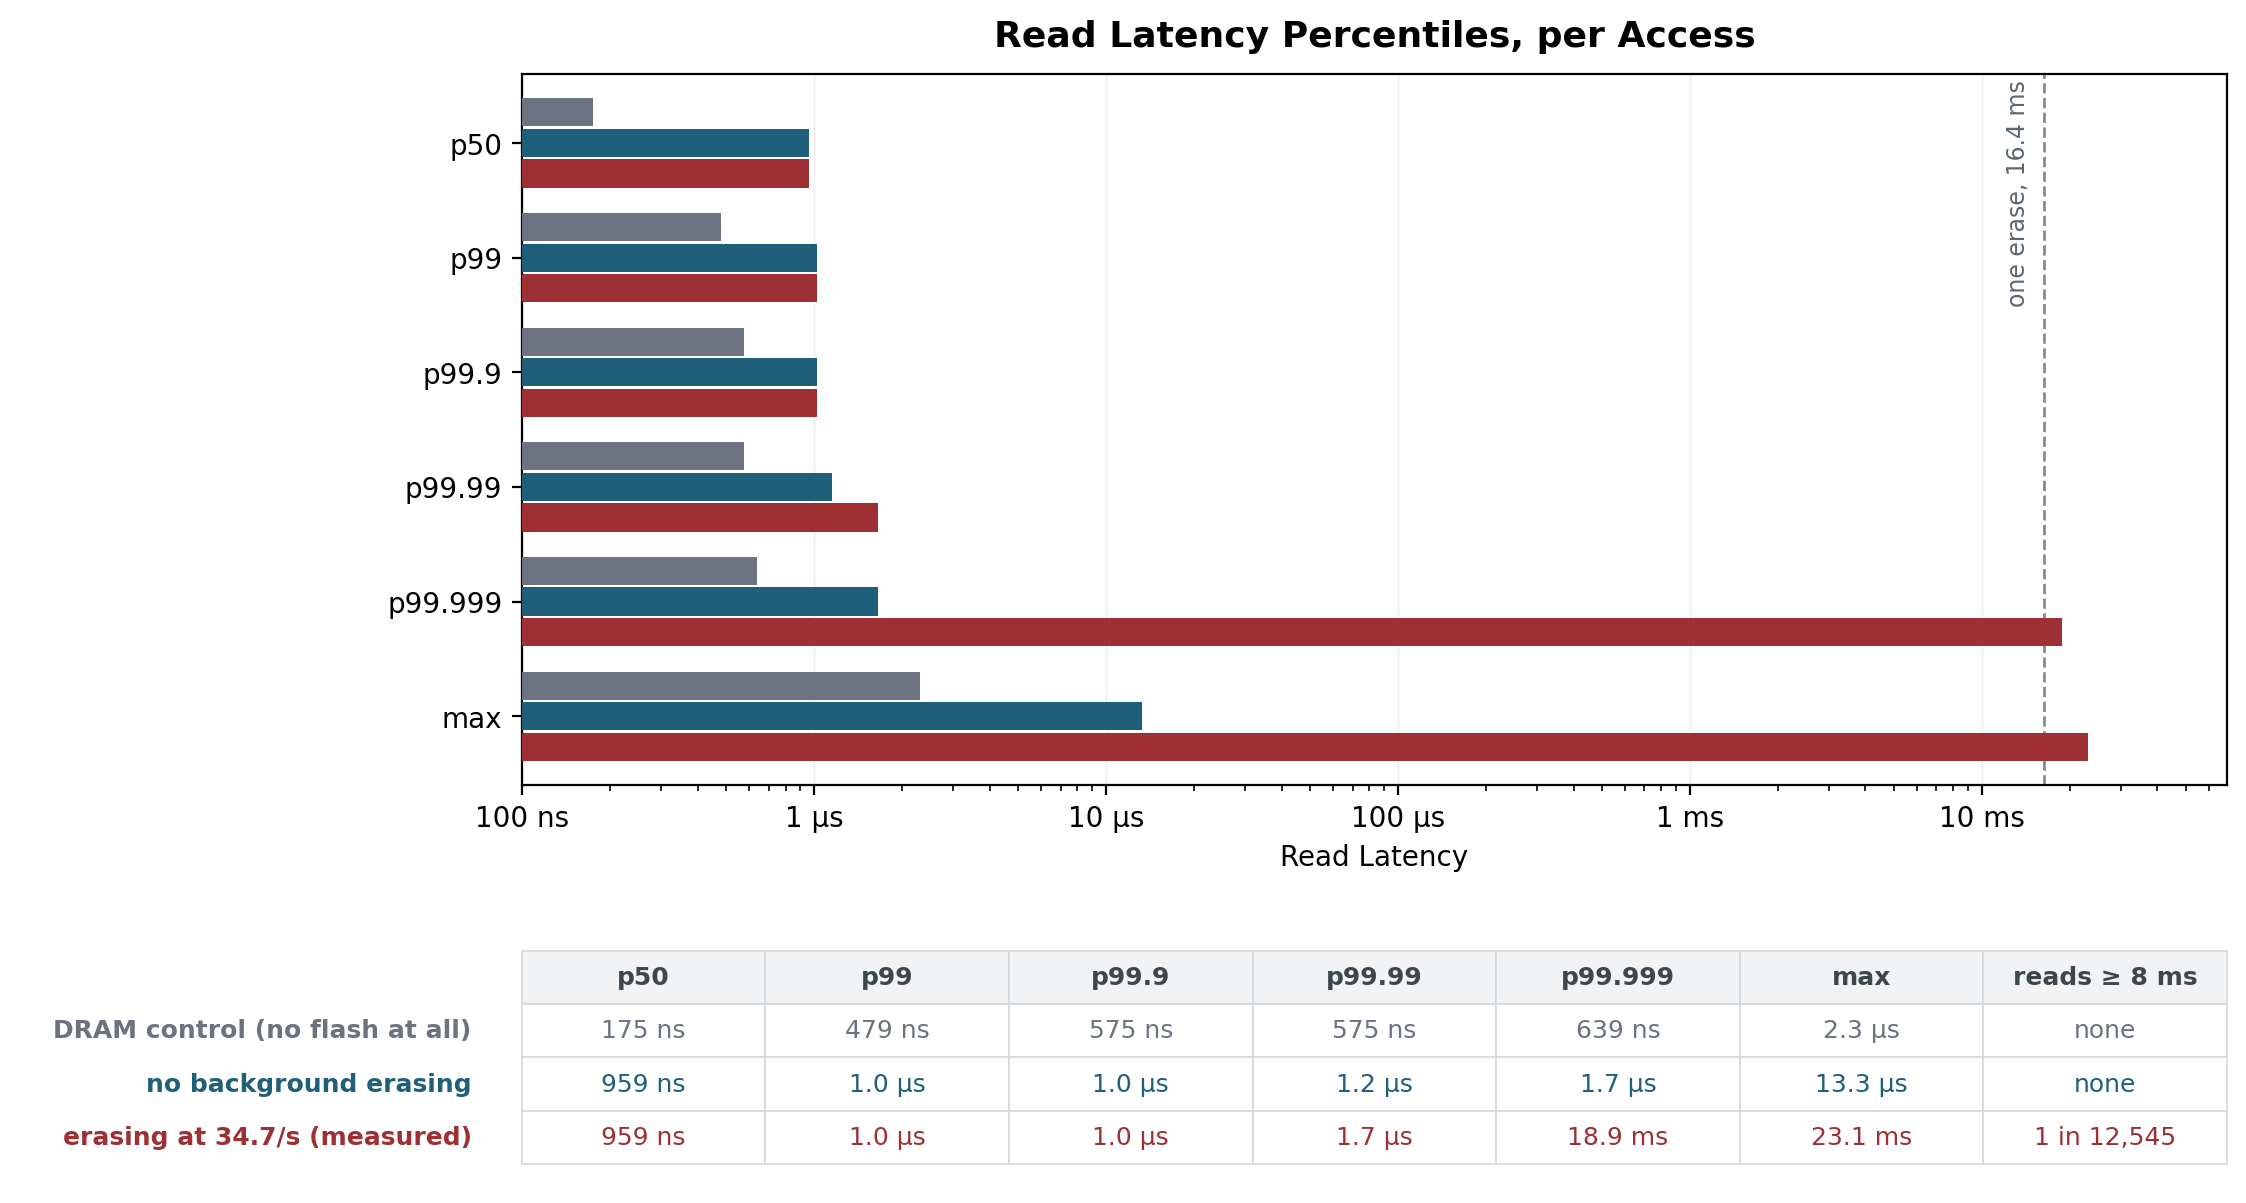
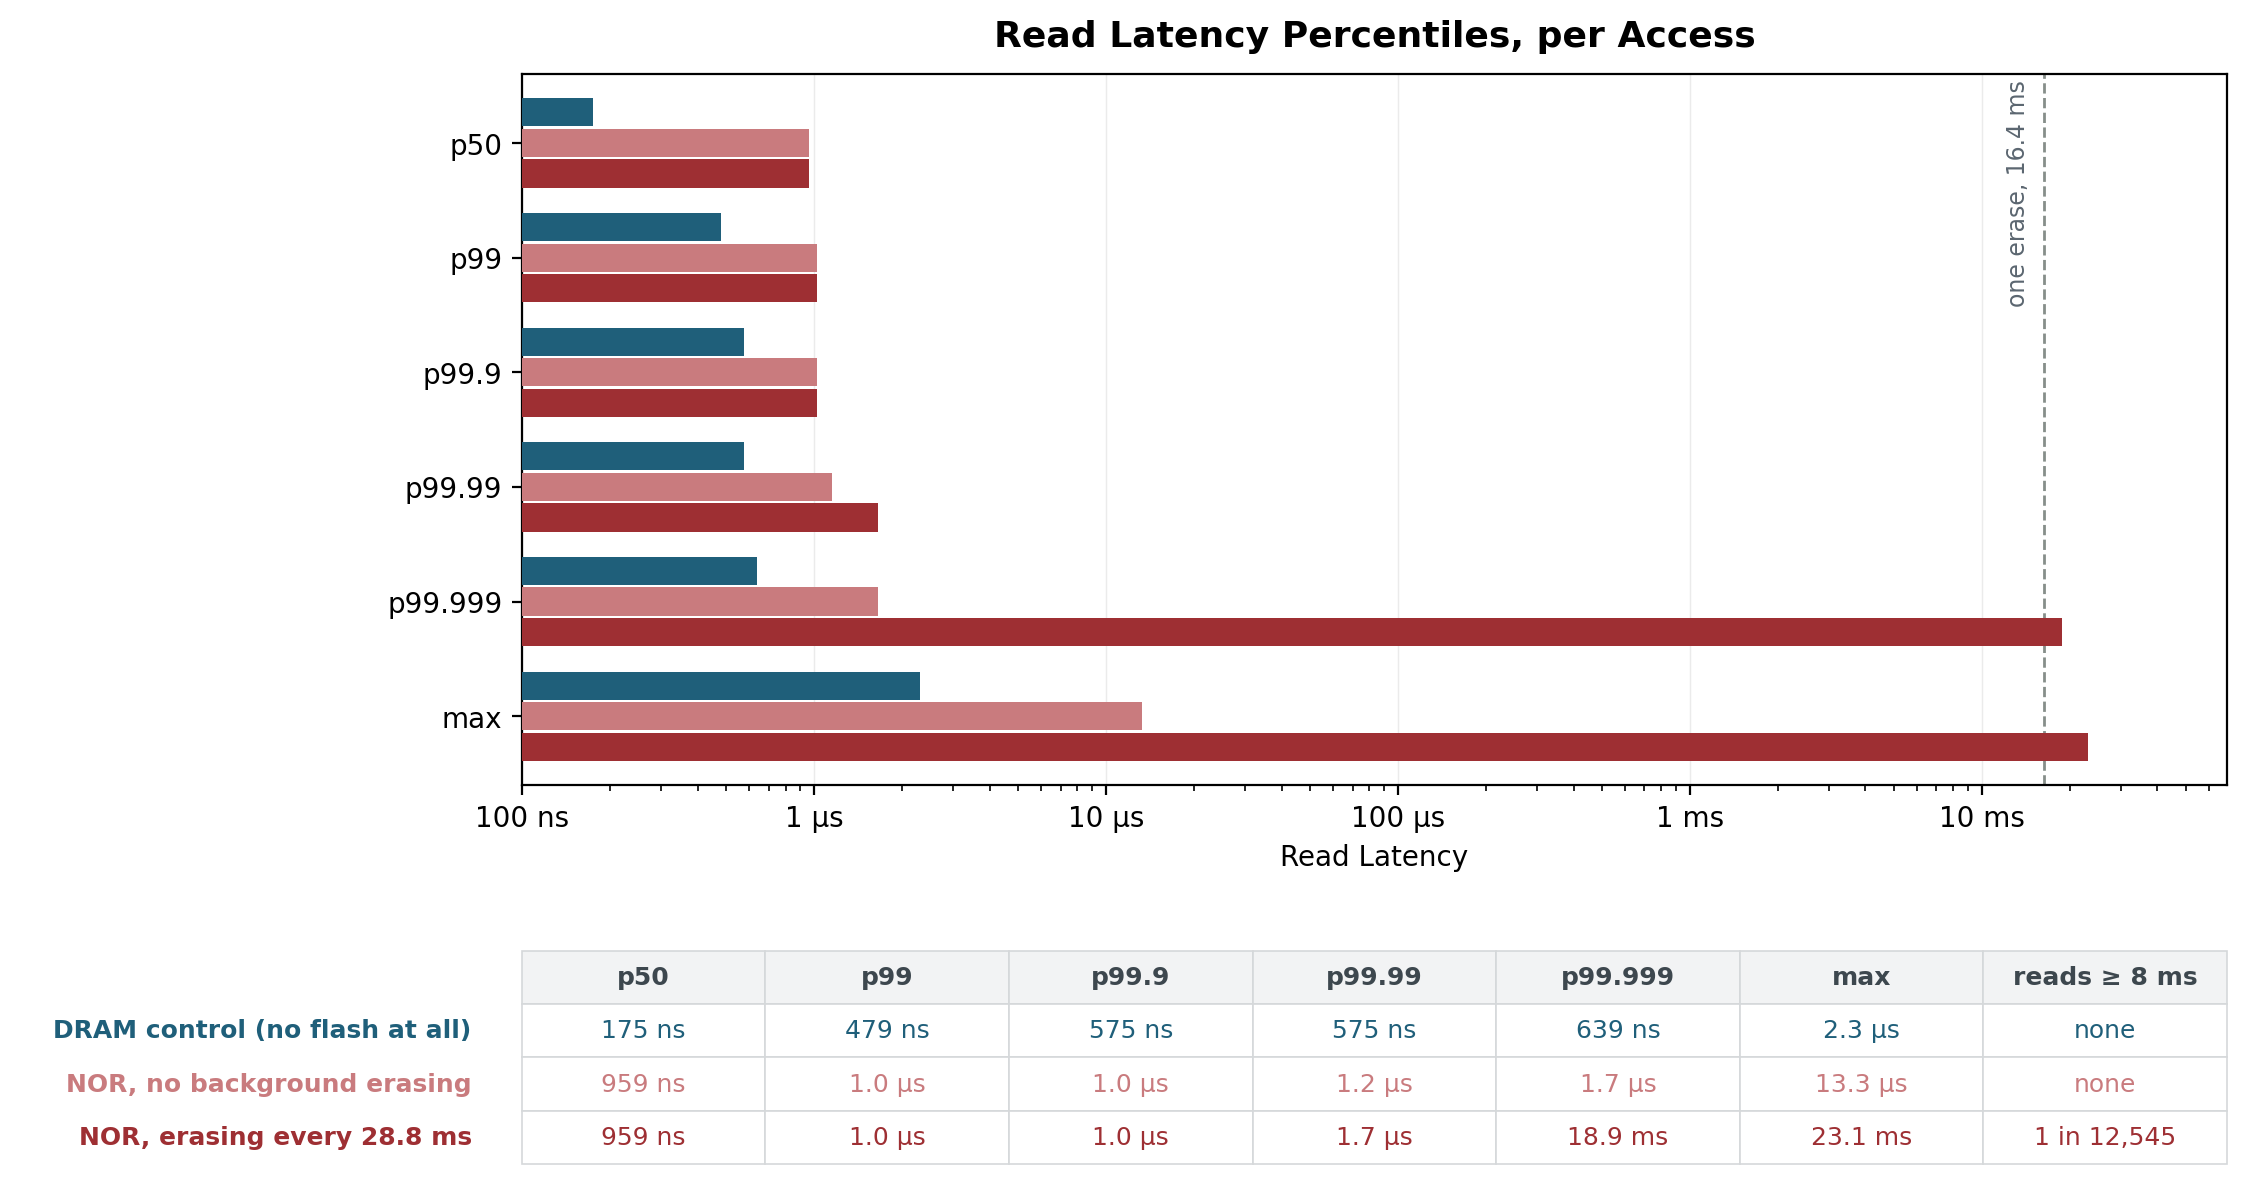
fig9b: colour is the medium again, legend follows the curves, period not rate
Three fixes.

Colour semantics were broken here and nowhere else: the DRAM control was grey
while "no background erasing" -- which is NOR -- wore the DRAM blue. Both NOR
conditions are shades of the NOR red now and DRAM is the DRAM blue, so the
difference between the two NOR curves reads as what the engine is doing rather
than as a change of medium.

Legend order came from call order, so the reader had to match lines to labels by
hand. legend_by_last already existed for this and fig9b was not using it; it now
reads top to bottom as the curves finish.

And the erasing label gives the period rather than the rate, since the period is
the knob and the rate is its consequence: 2,080 erases in 60 s is one every
28.8 ms, of which 22.3 ms is the erase itself. Worth being exact that this is
NOT the 30 ms erase_poll_ms spacing -- that branch needs target_pid attached and
it was cleared for these phases, so this curve is the unpaced case.

diff --git a/scripts/rw_census.py b/scripts/rw_census.py
@@ -1,0 +1,159 @@
+#!/usr/bin/env python3
+"""How much memory is write-cold, against how much is cold, as a function of T.
+
+The motivation argument in one measurement. Cold-page tiering (Google's
+software-defined far memory, Meta's TMO) moves pages that were NOT ACCESSED for
+T seconds. LtRAM can move pages that were NOT WRITTEN for T seconds -- a
+strictly larger set, because every cold page is also write-cold but a page that
+is read a million times a second and never written is write-cold and not cold.
+
+    sudo ./rw_census.py --pid 1234 --until 28800
+    sudo ./rw_census.py --cmd './my_workload args' --until 3600
+
+Both quantities come from the SAME pages in the SAME pass, which is what makes
+the comparison mean anything:
+
+  written    /proc/PID/clear_refs = 4 clears the soft-dirty bit; any store then
+             sets it, and it stays set until cleared again. So one clear at t=0
+             plus reads at increasing T gives the cumulative "written by T"
+             curve directly -- no repeated clearing, no sampling gaps.
+  accessed   /sys/kernel/mm/page_idle/bitmap. Marking a page idle at t=0 means
+             any access clears the bit, and it stays clear. Same cumulative
+             property, so the two curves are measured the same way.
+
+Needs root for page_idle (it is indexed by PFN, and PFNs are privileged).
+Without root the accessed column is skipped and the write-cold curve still
+works, which is the half this project's argument rests on.
+"""
+import argparse, ctypes, os, struct, sys, time, subprocess, signal
+
+PAGE = os.sysconf("SC_PAGE_SIZE")
+PM_SOFT_DIRTY = 1 << 55
+PM_PRESENT    = 1 << 63
+PM_FILE       = 1 << 61
+PM_SWAPPED    = 1 << 62
+PFN_MASK      = (1 << 55) - 1
+
+ap = argparse.ArgumentParser()
+ap.add_argument("--pid", type=int)
+ap.add_argument("--cmd", help="launch this and measure it")
+ap.add_argument("--label", default=None, help="workload name for the output")
+ap.add_argument("--until", type=int, default=3600, help="last T in seconds")
+ap.add_argument("--warmup", type=int, default=30, help="let it reach steady state first")
+ap.add_argument("--anon-only", action="store_true", help="exclude file-backed pages")
+ap.add_argument("--out", default="-")
+a = ap.parse_args()
+
+SCHEDULE = [1, 2, 4, 8, 15, 30, 60, 120, 240, 360, 480, 600,
+            900, 1200, 1800, 2700, 3600, 5400, 7200, 10800, 14400, 21600, 28800]
+SCHEDULE = [t for t in SCHEDULE if t <= a.until]
+
+proc = None
+if a.cmd:
+    proc = subprocess.Popen(a.cmd, shell=True, preexec_fn=os.setsid)
+    pid = proc.pid
+    print(f"# launched pid {pid}: {a.cmd}", file=sys.stderr)
+    time.sleep(a.warmup)
+elif a.pid:
+    pid = a.pid
+else:
+    sys.exit("need --pid or --cmd")
+
+label = a.label or (a.cmd.split()[0] if a.cmd else f"pid{pid}")
+
+def vmas():
+    """Mappings worth counting. Excludes the special ones the kernel pins in
+    place -- vsyscall, vvar, vdso -- which can never move regardless of policy
+    and would otherwise pad the denominator."""
+    out = []
+    with open(f"/proc/{pid}/maps") as f:
+        for line in f:
+            p = line.split()
+            rng, perms = p[0], p[1]
+            name = p[5] if len(p) > 5 else ""
+            if name in ("[vsyscall]", "[vvar]", "[vdso]"): continue
+            if a.anon_only and name and not name.startswith("["): continue
+            lo, hi = (int(x, 16) for x in rng.split("-"))
+            out.append((lo, hi, name))
+    return out
+
+def read_pagemap(lo, hi):
+    n = (hi - lo) // PAGE
+    with open(f"/proc/{pid}/pagemap", "rb") as f:
+        f.seek((lo // PAGE) * 8)
+        buf = f.read(n * 8)
+    return struct.unpack(f"<{len(buf)//8}Q", buf)
+
+HAVE_IDLE = os.geteuid() == 0 and os.path.exists("/sys/kernel/mm/page_idle/bitmap")
+
+def idle_set(pfns):
+    """Mark these PFNs idle. Writes are per-u64, 64 PFNs each."""
+    words = {}
+    for p in pfns: words.setdefault(p >> 6, 0)
+    for p in pfns: words[p >> 6] |= 1 << (p & 63)
+    with open("/sys/kernel/mm/page_idle/bitmap", "r+b") as f:
+        for w, v in words.items():
+            f.seek(w * 8); f.write(struct.pack("<Q", v))
+
+def idle_get(pfns):
+    """Which of these are STILL idle, i.e. untouched since we marked them."""
+    need = sorted({p >> 6 for p in pfns})
+    words = {}
+    with open("/sys/kernel/mm/page_idle/bitmap", "rb") as f:
+        for w in need:
+            f.seek(w * 8); d = f.read(8)
+            if len(d) == 8: words[w] = struct.unpack("<Q", d)[0]
+    return {p for p in pfns if words.get(p >> 6, 0) & (1 << (p & 63))}
+
+# ---- t = 0 -----------------------------------------------------------------
+base = {}          # vaddr -> pfn, for the pages we are tracking
+regions = vmas()
+for lo, hi, name in regions:
+    try: ents = read_pagemap(lo, hi)
+    except Exception: continue
+    for i, e in enumerate(ents):
+        if e & PM_PRESENT:
+            base[lo + i * PAGE] = e & PFN_MASK
+resident = len(base)
+if resident == 0: sys.exit("no resident pages found -- wrong pid, or nothing mapped yet")
+
+with open(f"/proc/{pid}/clear_refs", "w") as f: f.write("4")   # clear soft-dirty
+if HAVE_IDLE:
+    pfns = {p for p in base.values() if p}
+    if pfns: idle_set(pfns)
+t0 = time.time()
+
+out = sys.stdout if a.out == "-" else open(a.out, "w")
+print("workload,T_sec,resident_pages,write_cold_pct,cold_pct,rss_mb", file=out, flush=True)
+print(f"# {label}: {resident:,} resident pages = {resident*PAGE/2**20:.0f} MiB, "
+      f"idle tracking {'on' if HAVE_IDLE else 'OFF (needs root)'}", file=sys.stderr)
+
+for T in SCHEDULE:
+    now = time.time() - t0
+    if now < T: time.sleep(T - now)
+    if proc and proc.poll() is not None:
+        print(f"# workload exited before T={T}", file=sys.stderr); break
+    written = 0; still = set()
+    try:
+        for lo, hi, name in regions:
+            try: ents = read_pagemap(lo, hi)
+            except Exception: continue
+            for i, e in enumerate(ents):
+                va = lo + i * PAGE
+                if va in base and (e & PM_PRESENT) and (e & PM_SOFT_DIRTY):
+                    written += 1
+        if HAVE_IDLE:
+            still = idle_get({p for p in base.values() if p})
+    except (FileNotFoundError, ProcessLookupError):
+        print(f"# workload gone at T={T}", file=sys.stderr); break
+    wc = 100.0 * (resident - written) / resident
+    cold = 100.0 * len(still) / resident if HAVE_IDLE else float("nan")
+    rss = 0
+    try:
+        with open(f"/proc/{pid}/statm") as f: rss = int(f.read().split()[1]) * PAGE / 2**20
+    except Exception: pass
+    print(f"{label},{T},{resident},{wc:.2f},{cold:.2f},{rss:.0f}", file=out, flush=True)
+
+if proc:
+    try: os.killpg(os.getpgid(proc.pid), signal.SIGTERM)
+    except Exception: pass

diff --git a/scripts/plot_selftest.py b/scripts/plot_selftest.py
@@ -536,13 +536,24 @@ if r:
         if ns < 1_000_000:       return f"{ns/1000:.1f} \u00b5s"
         return f"{ns/1e6:.1f} ms"
 
-    LABEL = {"dram_control":    ("#6B7280", "DRAM control (no flash at all)"),
-             "engine_spaced":   ("#2F6B4F", "erasing, 30 ms spacing (real operating point)"),
-             "erasing":         (C_NOR,  "erasing at 34.7/s (measured)"),
-             "engine_off":      (C_DRAM, "no background erasing"),
-             "engine_normal":   ("#B8860B", "erasing, module defaults"),
-             "engine_on":       ("#B8860B", "erasing, module defaults"),
-             "engine_flat_out": (C_NOR,  "erasing, engine pinned flat out")}
+    # Colour is the MEDIUM, which is this project's rule everywhere else and
+    # was broken here: the DRAM control was grey while "no background erasing"
+    # -- which is NOR -- wore the DRAM blue. Both NOR conditions are now shades
+    # of the NOR red, DRAM is the DRAM blue, and the difference between the two
+    # NOR curves is what the engine is doing, not what the medium is.
+    NOR_QUIET = "#C97B7E"          # NOR, nothing erasing
+    LABEL = {"dram_control":    (C_DRAM,    "DRAM control (no flash at all)"),
+             "engine_off":      (NOR_QUIET, "NOR, no background erasing"),
+             # Period, not rate: it is the knob, and the rate is the
+             # consequence. 2,080 erases in 60 s = one every 28.8 ms, of which
+             # 22.3 ms is the erase itself. NOT the 30 ms erase_poll_ms
+             # spacing -- that branch only applies when target_pid is attached,
+             # and it was cleared for these phases, so this is the unpaced case.
+             "erasing":         (C_NOR,     "NOR, erasing every 28.8 ms"),
+             "engine_spaced":   (C_NOR,     "NOR, erasing at 7.2/s (30 ms spacing)"),
+             "engine_normal":   (C_NOR,     "NOR, erasing (module defaults)"),
+             "engine_on":       (C_NOR,     "NOR, erasing (module defaults)"),
+             "engine_flat_out": ("#7A1F22", "NOR, erasing unspaced at 33.9/s")}
     order = ["dram_control", "engine_off", "erasing", "engine_spaced",
              "engine_normal", "engine_on", "engine_flat_out"]
     present = [c for c in order if any(x["condition"] == c for x in r)]
@@ -677,7 +688,7 @@ if r:
         ax2.set_yticklabels(["100 ns", "1 \u00b5s", "10 \u00b5s", "100 \u00b5s", "1 ms", "10 ms"])
         ax2.set_xlim(0, nines(0.9999995))
         frame(ax2, "Where the Knees Are", "Percentile", "Read Latency")
-        ax2.legend(fontsize=9, frameon=False, loc="upper left")
+        legend_by_last(ax2, fontsize=9, frameon=False, loc="upper left")
         fig2.tight_layout()
         fig2.savefig(f"{OUT}/fig9b-quantiles.png", dpi=200)
         made.append("fig9b-quantiles")
